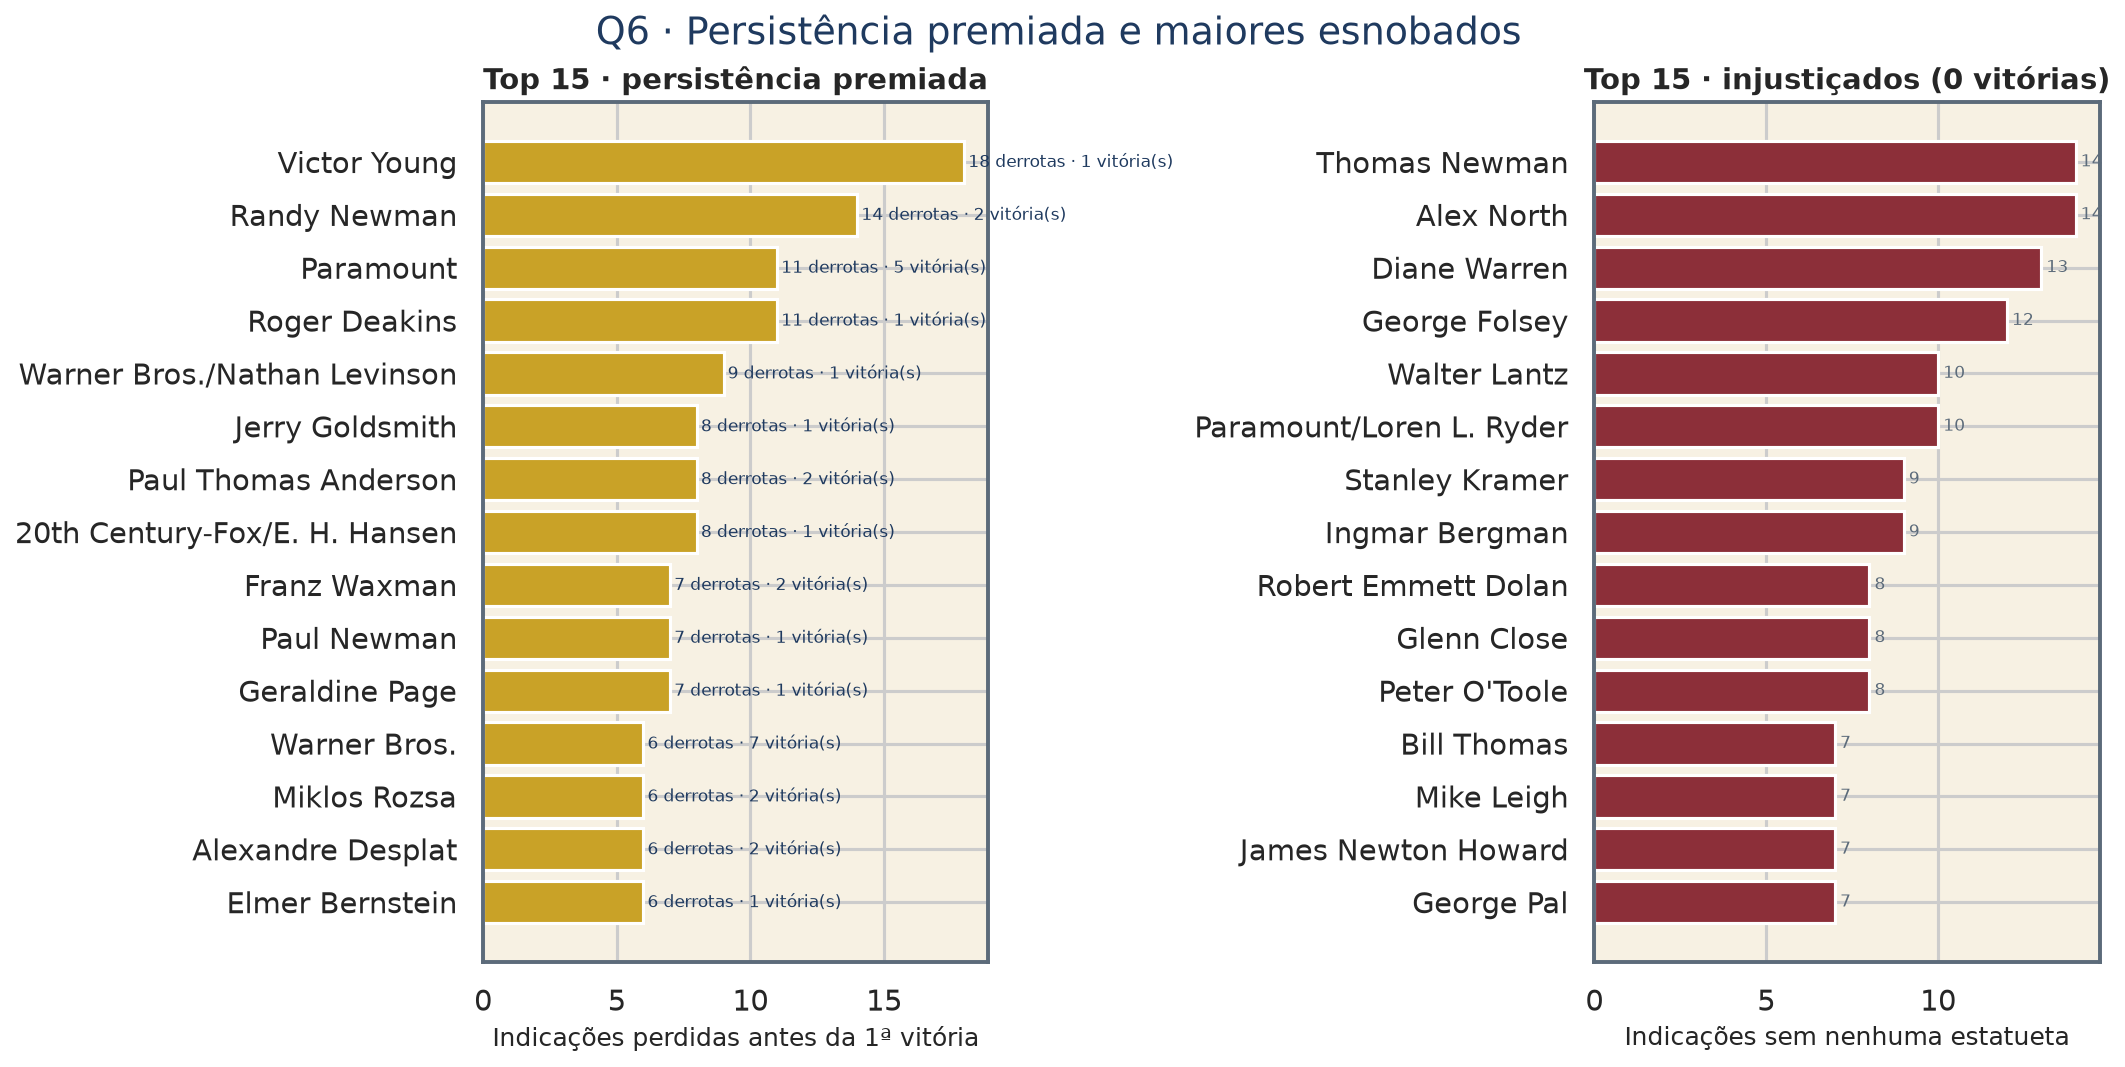
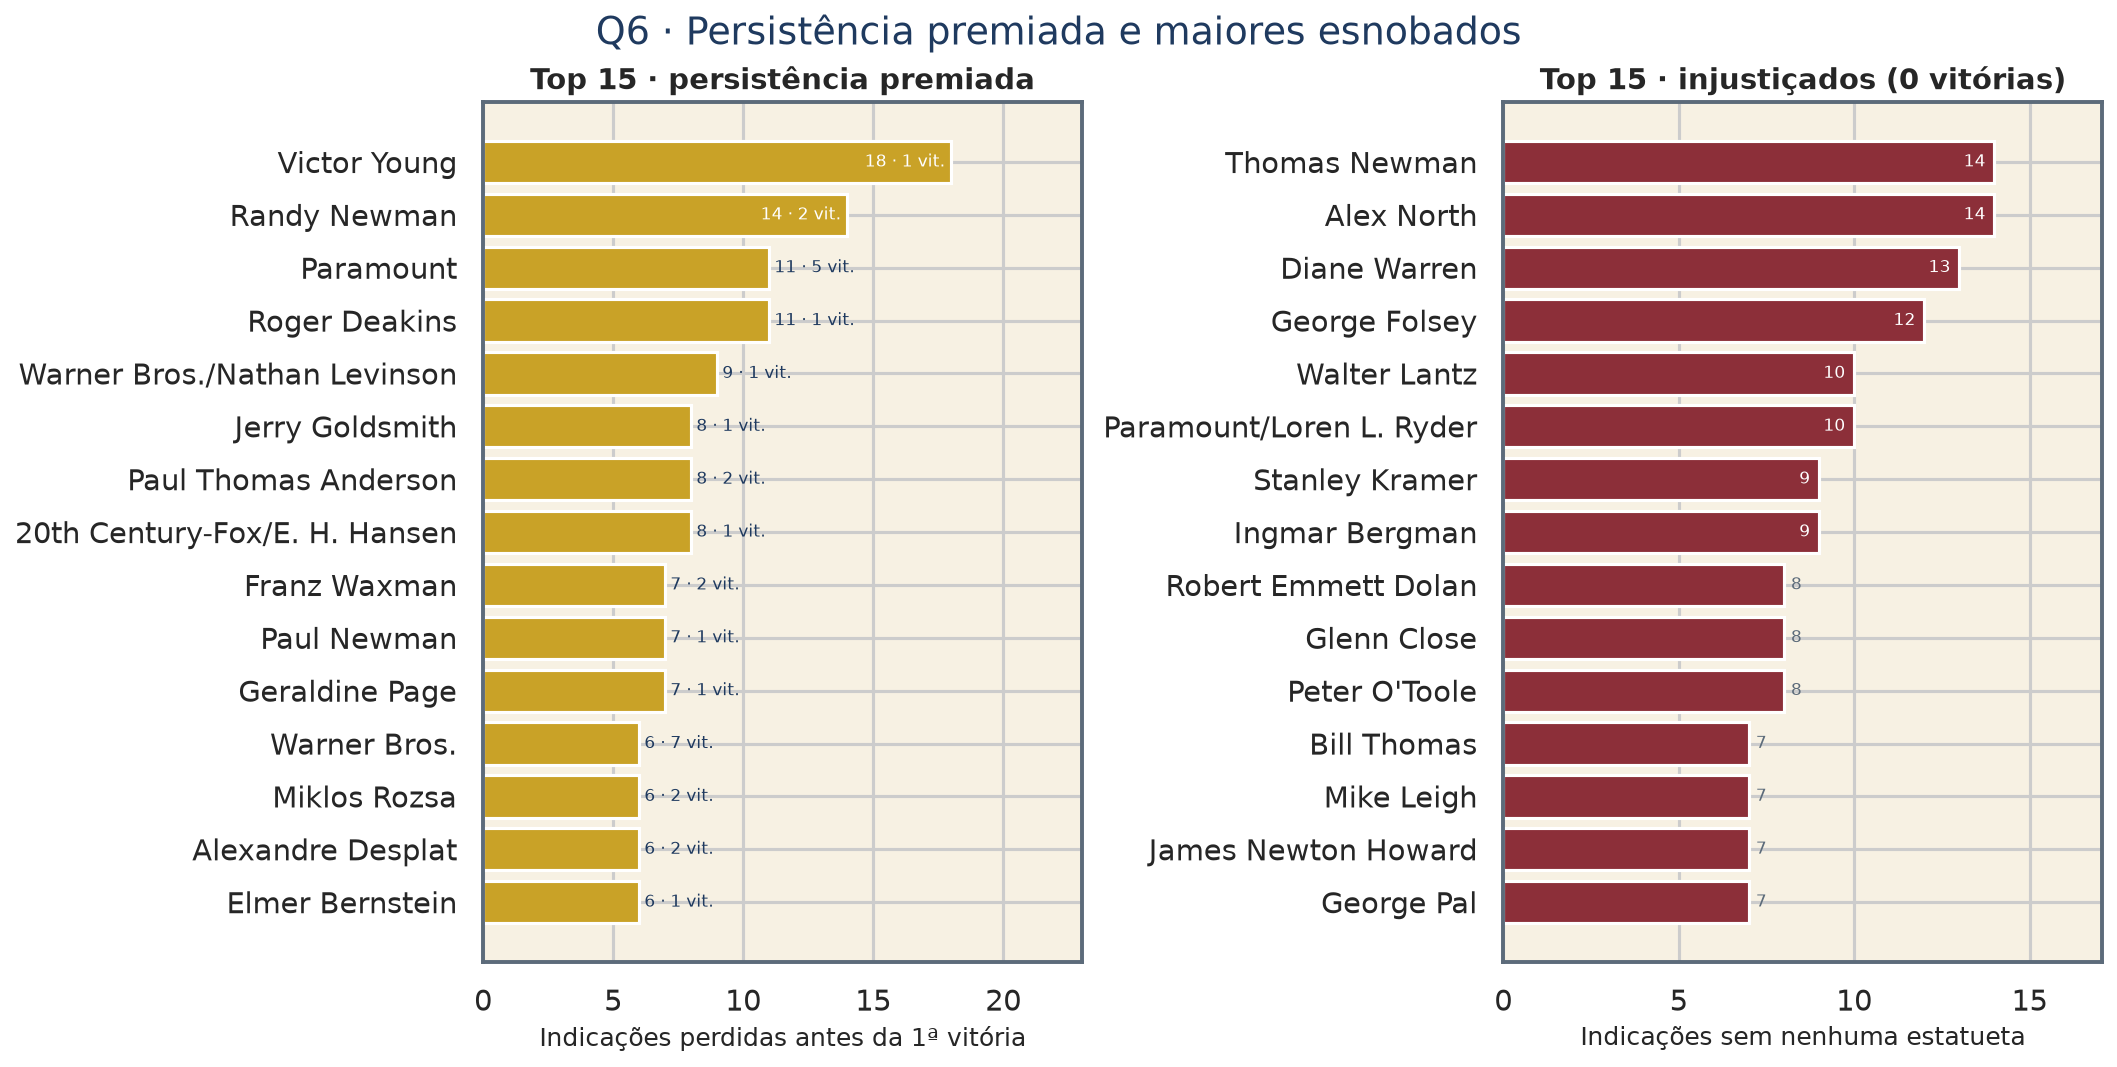
Ajusta a legibilidade das figuras complementares e grava as PNGs de Q6–Q10 para os slides.

diff --git a/src/projeto1_c11/questions/q09_elegibilidade.py b/src/projeto1_c11/questions/q09_elegibilidade.py
@@ -16,7 +16,7 @@ QUESTION = (
 )
 
 MILESTONES = (
-    (1933, "Janelas 1927/28–1932/33"),
+    (1933, "Última janela 1927/28–1932/33"),
     (1935, "Alinhamento ao ano civil"),
     (COVID_CEREMONY_YEAR, "Janela COVID-19"),
 )
@@ -45,47 +45,54 @@ def calendar_anomalies(result: pd.DataFrame) -> pd.DataFrame:
     return result.loc[gaps.notna() & gaps.ne(1)].copy()
 
 
-def _annotate_milestone(ax, result: pd.DataFrame, year: int, text: str, y_col: str) -> None:
-    match = result.loc[result["year_ceremony"].eq(year)]
-    if match.empty:
-        return
-    row = match.iloc[0]
-    ax.annotate(
-        text,
-        (row["year_ceremony"], row[y_col]),
-        textcoords="offset points",
-        xytext=(8, 12),
-        fontsize=8,
-        color=NAVY,
-        arrowprops={"arrowstyle": "-", "color": SLATE, "lw": 0.6},
-    )
-
-
 def plot(result: pd.DataFrame) -> Figure:
     import matplotlib.pyplot as plt
 
     fig, axes = plt.subplots(2, 1, figsize=(11, 7.5), sharex=True, layout="constrained")
     lag_ax, volume_ax = axes
 
-    lag_ax.plot(
-        result["year_ceremony"],
-        result["lag_film_ceremony"],
-        marker="o",
-        color=GOLD,
-        label="year_ceremony − year_film",
+    lag_constant = (
+        float(result["lag_film_ceremony"].mode().iloc[0])
+        if not result.empty
+        else 1.0
     )
-    lag_ax.plot(
+    lag_ax.axhline(
+        lag_constant,
+        color=GOLD,
+        linestyle="--",
+        linewidth=1.8,
+        label=f"lag do CSV (sempre {lag_constant:.0f})",
+    )
+    lag_ax.step(
         result["year_ceremony"],
         result["ceremony_offset"],
-        marker="s",
+        where="post",
         color=NAVY,
+        linewidth=2.4,
         label="offset do calendário (ano − 1927 − edição)",
     )
     lag_ax.set_ylabel("Anos")
     lag_ax.set_title("Lag do CSV vs. mudança permanente de calendário")
+    lag_ax.set_ylim(-0.2, 1.45)
     lag_ax.legend(frameon=False, loc="center right")
-    for year, text in MILESTONES:
-        _annotate_milestone(lag_ax, result, year, text, "ceremony_offset")
+    if result["year_ceremony"].le(1933).any():
+        lag_ax.text(
+            0.02,
+            0.18,
+            "1928–1933: offset = 0\n(janelas 1927/28–1932/33)",
+            transform=lag_ax.transAxes,
+            fontsize=8,
+            color=NAVY,
+        )
+    if result["year_ceremony"].eq(1935).any():
+        lag_ax.text(
+            0.22,
+            0.55,
+            "1935–hoje: offset = lag = 1",
+            transform=lag_ax.transAxes,
+            fontsize=8,
+            color=NAVY,
+        )
 
     volume_ax.plot(
         result["year_ceremony"],
@@ -97,12 +104,26 @@ def plot(result: pd.DataFrame) -> Figure:
     volume_ax.set_xlabel("Ano da cerimônia")
     volume_ax.set_ylabel("Indicações")
     volume_ax.set_title("Volume de reconhecimento e marcos regulamentares")
+    label_offsets = {
+        1933: (6, -28),
+        1935: (8, 14),
+        COVID_CEREMONY_YEAR: (-110, 12),
+    }
     for year, text in MILESTONES:
         match = result.loc[result["year_ceremony"].eq(year)]
         if match.empty:
             continue
         volume_ax.axvline(year, color=SLATE, alpha=0.35, linestyle="--", linewidth=1)
-        _annotate_milestone(volume_ax, result, year, text, "n_nominations")
+        row = match.iloc[0]
+        volume_ax.annotate(
+            text,
+            (row["year_ceremony"], row["n_nominations"]),
+            textcoords="offset points",
+            xytext=label_offsets.get(year, (8, 12)),
+            fontsize=8,
+            color=NAVY,
+            arrowprops={"arrowstyle": "-", "color": SLATE, "lw": 0.6},
+        )
 
     fig.suptitle("Q9 · Janelas de elegibilidade e o calendário da Academia", color=NAVY)
     return fig

diff --git a/src/projeto1_c11/questions/q06_persistencia.py b/src/projeto1_c11/questions/q06_persistencia.py
@@ -85,20 +85,23 @@ def plot(result: pd.DataFrame, *, top_n: int = TOP_N) -> Figure:
         late_ax.barh(late["name"], late["losses_before_first_win"], color=GOLD)
         late_ax.set_xlabel("Indicações perdidas antes da 1ª vitória")
         late_ax.set_title(f"Top {len(late)} · persistência premiada")
+        max_loss = float(late["losses_before_first_win"].max())
+        late_ax.set_xlim(0, max(1.0, max_loss * 1.28))
         for y_pos, losses, wins in zip(
             range(len(late)),
             late["losses_before_first_win"],
             late["wins"],
             strict=True,
         ):
+            inside = losses > max_loss * 0.62
             late_ax.text(
-                losses + 0.15,
+                losses - 0.25 if inside else losses + 0.2,
                 y_pos,
-                f"{int(losses)} derrotas · {int(wins)} vitória(s)",
+                f"{int(losses)} · {int(wins)} vit.",
                 va="center",
-                ha="left",
+                ha="right" if inside else "left",
                 fontsize=8,
-                color=NAVY,
+                color="white" if inside else NAVY,
             )
 
     snubs = never_won(result, top_n=top_n)
@@ -108,17 +111,20 @@ def plot(result: pd.DataFrame, *, top_n: int = TOP_N) -> Figure:
         snub_ax.barh(snubs["name"], snubs["nominations"], color=WINE)
         snub_ax.set_xlabel("Indicações sem nenhuma estatueta")
         snub_ax.set_title(f"Top {len(snubs)} · injustiçados (0 vitórias)")
+        max_noms = float(snubs["nominations"].max())
+        snub_ax.set_xlim(0, max(1.0, max_noms * 1.22))
         for y_pos, nominations in zip(
             range(len(snubs)), snubs["nominations"], strict=True
         ):
+            inside = nominations > max_noms * 0.62
             snub_ax.text(
-                nominations + 0.15,
+                nominations - 0.25 if inside else nominations + 0.2,
                 y_pos,
                 str(int(nominations)),
                 va="center",
-                ha="left",
+                ha="right" if inside else "left",
                 fontsize=8,
-                color=SLATE,
+                color="white" if inside else SLATE,
             )
 
     fig.suptitle("Q6 · Persistência premiada e maiores esnobados", color=NAVY)

diff --git a/src/projeto1_c11/questions/q08_nomenclatura.py b/src/projeto1_c11/questions/q08_nomenclatura.py
@@ -45,13 +45,18 @@ def renamed_families(result: pd.DataFrame) -> pd.DataFrame:
 
 
 def _timeline_rows(result: pd.DataFrame) -> pd.DataFrame:
-    preferred = result.loc[result["category_canon"].isin(NOMENCLATURE_FAMILIES)]
-    if not preferred.empty:
-        return preferred
-    renamed = renamed_families(result)
-    if not renamed.empty:
-        return renamed
-    return result
+    preferred = result.loc[result["category_canon"].isin(NOMENCLATURE_FAMILIES)].copy()
+    if preferred.empty:
+        renamed = renamed_families(result)
+        if not renamed.empty:
+            return renamed
+        return result
+
+    family_order = {name: index for index, name in enumerate(NOMENCLATURE_FAMILIES)}
+    preferred["_family_order"] = preferred["category_canon"].map(family_order)
+    return preferred.sort_values(["_family_order", "first_year"]).drop(
+        columns="_family_order"
+    )
 
 
 def plot(result: pd.DataFrame) -> Figure:
@@ -64,7 +69,7 @@ def plot(result: pd.DataFrame) -> Figure:
         fig.suptitle("Q8 · Modernização dos nomes das categorias", color=NAVY)
         return fig
 
-    rows = rows.sort_values(["category_canon", "first_year"]).reset_index(drop=True)
+    rows = rows.reset_index(drop=True)
     families = list(dict.fromkeys(rows["category_canon"].tolist()))
     color_map = {
         family: FAMILY_COLORS[index % len(FAMILY_COLORS)]
